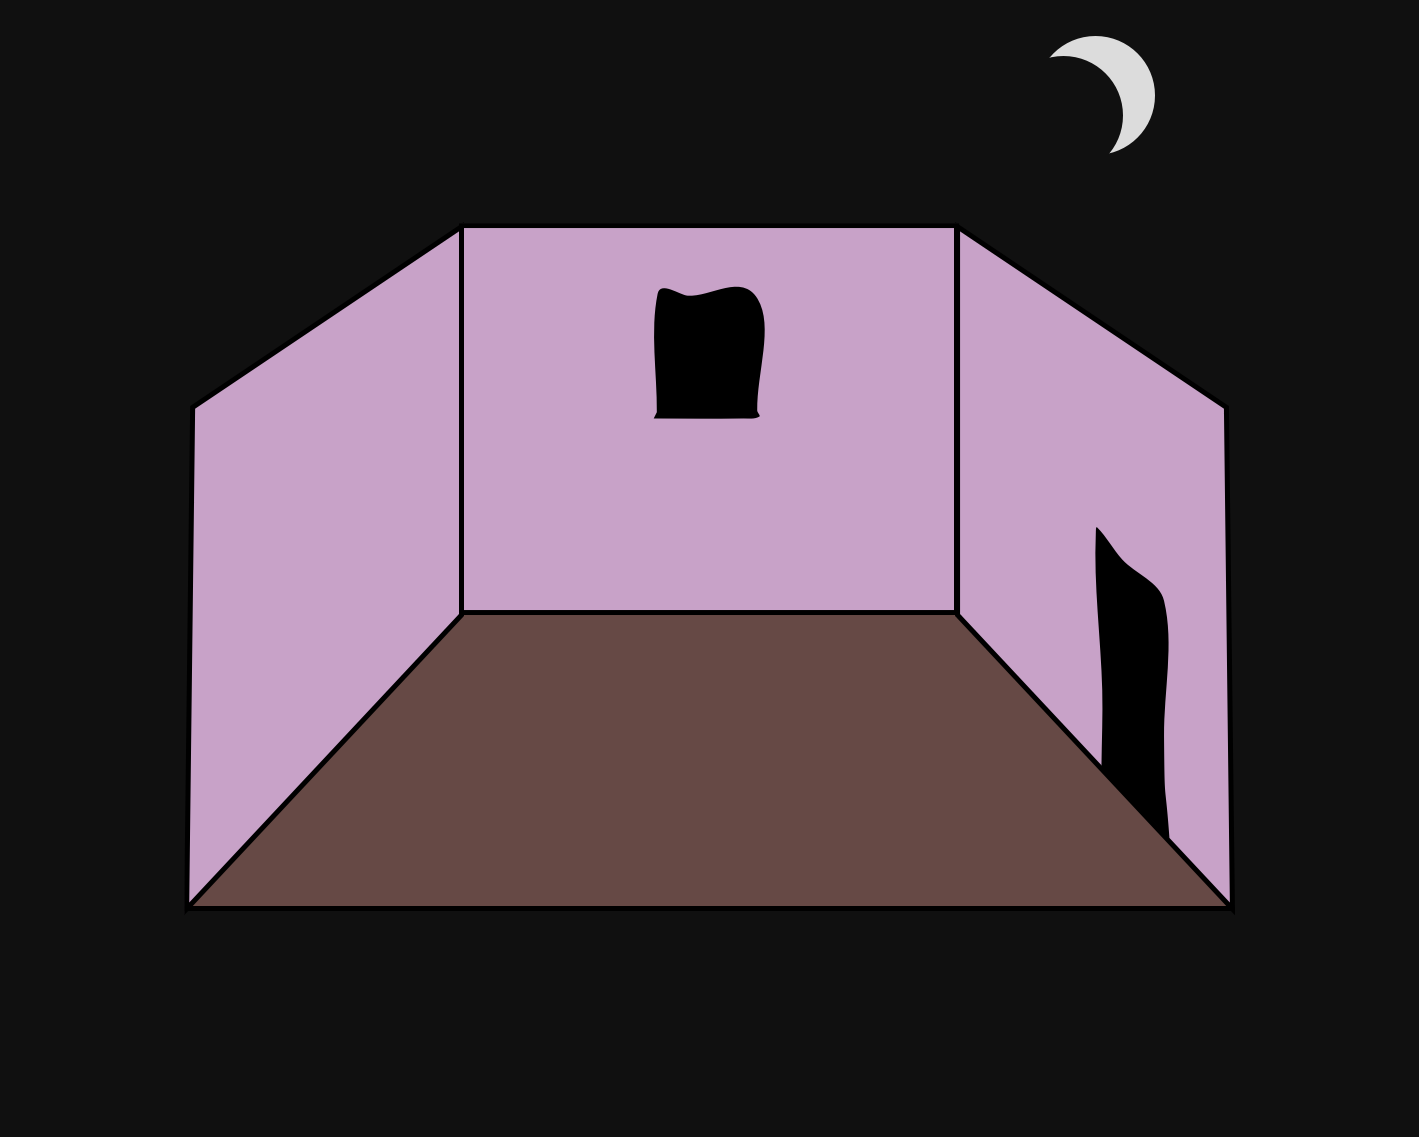
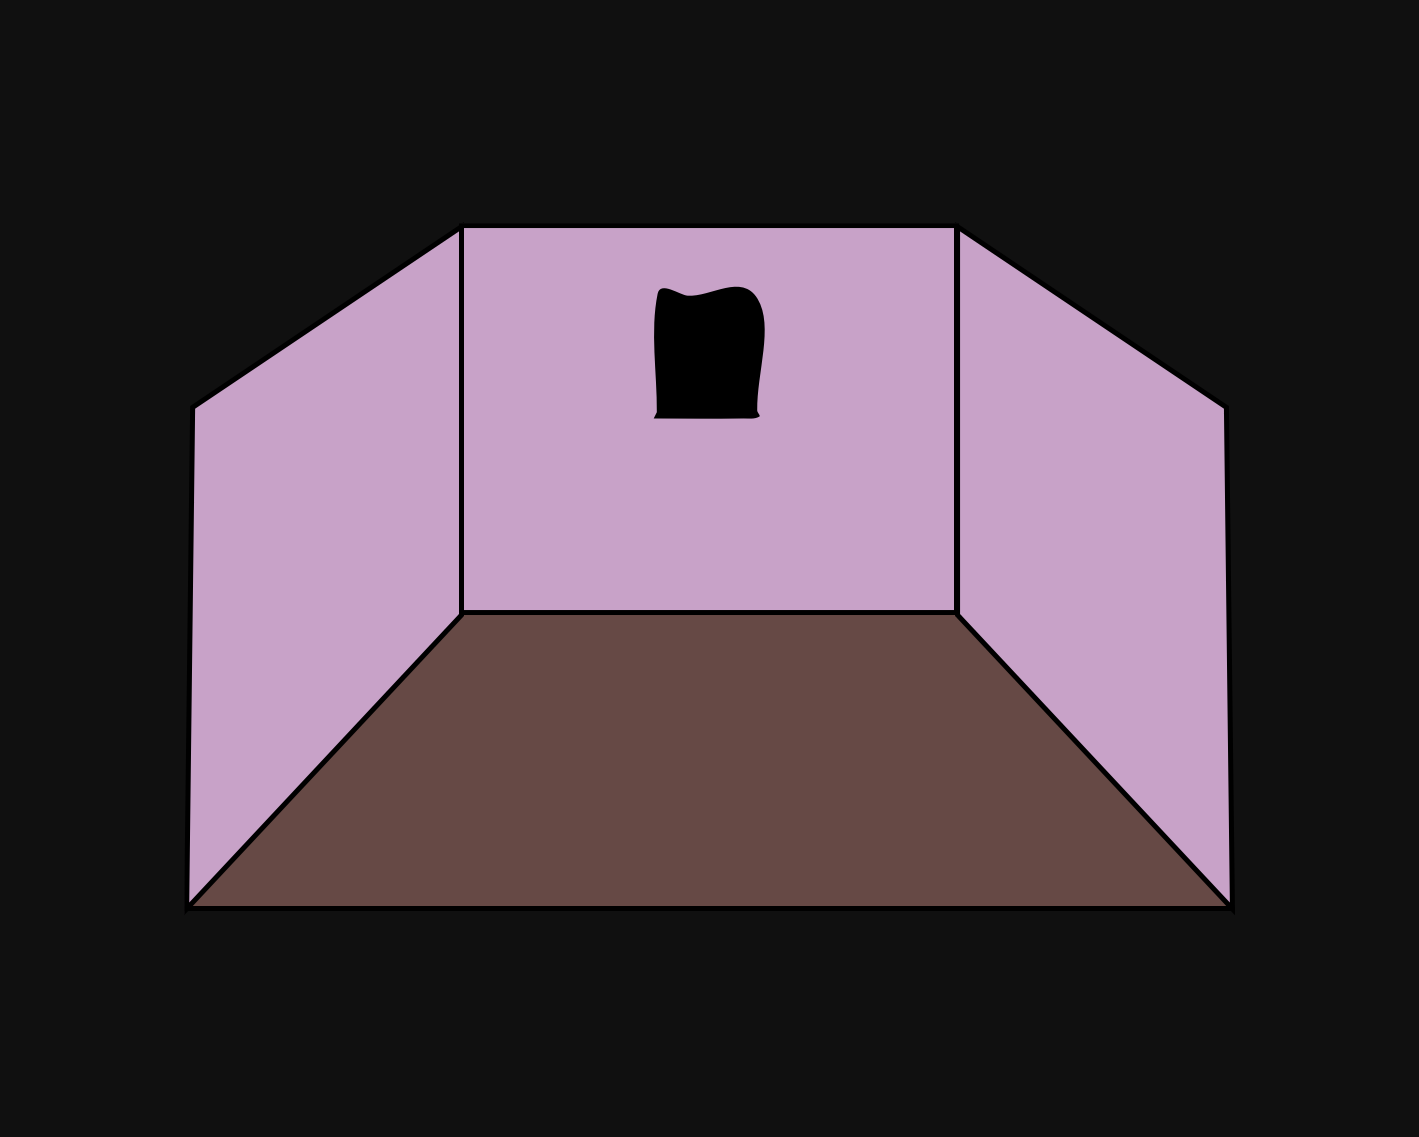
lots of changes!!

Changed region(s): [[0.7442, 0.4617, 0.8372, 0.7388], [0.7442, 0.0308, 0.8372, 0.1539]]

diff --git a/src/pages/index.js b/src/pages/index.js
@@ -7,10 +7,12 @@ import SEO from '../components/seo';
 import '../styles/index.scss';
 
 import Room from '../images/room.png'
+import Moon from '../images/moon.png'
 import Book from '../images/book.png'
 import Chair from '../images/chair.png'
 import Clock from '../images/clock.png'
 import ClosedDoor from '../images/closed_door.png'
+import DoorHole from '../images/door_hole.png'
 import Desk from '../images/desk.png'
 import Houseplant from '../images/houseplant.png'
 import Laptop from '../images/laptop.png'
@@ -20,24 +22,54 @@ import Photos from '../images/photos.png'
 import Piano from '../images/piano.png'
 import Scroll from '../images/scroll.png'
 
+function open_door() {
+	document.getElementById('open_door').style.visibility = 'visible'
+	document.getElementById('closed_door').style.visibility = 'hidden'
+}
+
+function close_door() {
+	document.getElementById('open_door').style.visibility = 'hidden'
+	document.getElementById('closed_door').style.visibility = 'visible'
+}
+
 const IndexPage = () => (
 	<Layout>
 		<SEO title="home" />
 		<div style={{ display: 'flex', flexDirection: 'column', justifyContent: 'center' }}>
 			<div style={{ position: 'relative' }}>
 				<img src={Room} alt='lilac room with brown floor' style={{ position: 'absolute', top: '0', left: '0', width: '900px', height: 'auto' }} />
+				<Link to='/moon' style={{ textDecoration: 'none' }}>
+					<img src={Moon} alt='crescent moon' style={{ position: 'absolute', top: '40px', left: '585px', width: '70px', height: 'auto' }} />
+				</Link>
 				<img src={Desk} alt='four-legged desk' style={{ position: 'absolute', top: '300px', left: '360px', width: '180px', height: 'auto' }} />
 				<img src={Chair} alt='desk chair with wheels' style={{ position: 'absolute', top: '320px', left: '405px', width: '100px', height: 'auto' }} />
-				<img src={Book} alt='open book with red cover' style={{ position: 'absolute', top: '297px', left: '450px', width: '55px', height: 'auto' }} />
-				<img src={Laptop} alt='laptop' style={{ position: 'absolute', top: '280px', left: '390px', width: '60px', height: 'auto' }} />
-				<img src={Clock} alt='analog clock' style={{ position: 'absolute', top: '200px', left: '530px', width: '35px', height: 'auto' }} />
-				<img src={Houseplant} alt='tall leafy houseplant' style={{ position: 'absolute', top: '210px', left: '530px', width: '120px', height: 'auto' }} />
-				<img src={Photos} alt='three photos on wall' style={{ position: 'absolute', top: '200px', left: '230px', width: '50px', height: 'auto' }} />
-				<img src={Scroll} alt='scroll with flowers and Chinese' style={{ position: 'absolute', top: '250px', left: '650px', width: '40px', height: 'auto' }} />
-				<img src={ClosedDoor} alt='brown door, closed' style={{ position: 'absolute', top: '333px', left: '691px', width: '55px', height: 'auto' }} />
-				<img src={OpenDoor} alt='brown door, open' style={{ visibility: 'hidden', position: 'absolute', top: '333px', left: '635px', width: '66px', height: 'auto' }} />
-				<img src={Moonlight} alt='rays of moonlight' style={{ position: 'absolute', top: '175px', left: '245px', width: '250px', height: 'auto' }} />
-				<img src={Piano} alt='piano keyboard and bench' style={{ position: 'absolute', top: '350px', left: '130px', width: '175px', height: 'auto' }} />
+				<Link to='/words' style={{ textDecoration: 'none' }}>
+					<img src={Book} alt='open book with red cover' style={{ position: 'absolute', top: '297px', left: '450px', width: '55px', height: 'auto' }} />
+				</Link>
+				<Link to='/random' style={{ textDecoration: 'none' }}>
+					<img src={Laptop} alt='laptop' style={{ position: 'absolute', top: '280px', left: '390px', width: '60px', height: 'auto' }} />
+				</Link>
+				<Link to='/time' style={{ textDecoration: 'none' }}>
+					<img src={Clock} alt='analog clock' style={{ position: 'absolute', top: '200px', left: '340px', width: '35px', height: 'auto' }} />
+				</Link>
+				<Link to='/goals' style={{ textDecoration: 'none' }}>
+					<img src={Houseplant} alt='tall leafy houseplant' style={{ position: 'absolute', top: '210px', left: '530px', width: '120px', height: 'auto' }} />
+				</Link>
+				<Link to='/album' style={{ textDecoration: 'none' }}>
+					<img src={Photos} alt='three photos on wall' style={{ position: 'absolute', top: '200px', left: '230px', width: '50px', height: 'auto' }} />
+				</Link>
+				<Link to='/fragments' style={{ textDecoration: 'none' }}>
+					<img src={Scroll} alt='scroll with flowers and Chinese' style={{ position: 'absolute', top: '250px', left: '650px', width: '40px', height: 'auto' }} />
+				</Link>
+				<Link to='/outside' onFocus={open_door} onMouseOver={open_door} onMouseMove={open_door} onMouseOut={close_door} onBlur={close_door} style={{ textDecoration: 'none' }}>
+					<img src={DoorHole} alt='door hole' style={{ position: 'absolute', top: '333px', left: '691px', width: '55px', height: 'auto' }} />
+					<img id='closed_door' src={ClosedDoor} alt='brown door, closed' style={{ position: 'absolute', top: '333px', left: '691px', width: '55px', height: 'auto' }} />
+					<img id='open_door' src={OpenDoor} alt='brown door, open' style={{ visibility: 'hidden', position: 'absolute', top: '333px', left: '635px', width: '66px', height: 'auto' }} />
+				</Link>
+				<img src={Moonlight} alt='rays of moonlight' style={{ position: 'absolute', top: '175px', left: '245px', width: '250px', height: 'auto', pointerEvents: 'none' }} />
+				<Link to='/listen' style={{ textDecoration: 'none' }}>
+					<img src={Piano} alt='piano keyboard and bench' style={{ position: 'absolute', top: '350px', left: '130px', width: '175px', height: 'auto' }} />
+				</Link>
 			</div>
 		</div>
 	</Layout>

diff --git a/src/pages/listen.js b/src/pages/listen.js
@@ -6,16 +6,17 @@ const ListeningPage = () => {
 	return (
 		<Layout>
 			<SEO title="listen" />
-			<h3>listen</h3>
-			<iframe style={{ margin: `10px` }} src="https://open.spotify.com/embed/track/3Dp5SHGbRIqjGGI3cPdESA" width="300" height="380" frameborder="0" allowtransparency="true" allow="encrypted-media"></iframe>
-            <iframe style={{ margin: `10px` }} src="https://open.spotify.com/embed/track/01ZqsXtHhRtO2Z2JrvkG1w" width="300" height="380" frameborder="0" allowtransparency="true" allow="encrypted-media"></iframe>
-            <iframe style={{ margin: `10px` }} src="https://open.spotify.com/embed/track/5Hvi3XSS00txHgZB6UZhFl" width="300" height="380" frameborder="0" allowtransparency="true" allow="encrypted-media"></iframe>
-            <iframe style={{ margin: `10px` }} src="https://open.spotify.com/embed/track/5SEvxpu5ImOFOcXyeM8fbx" width="300" height="380" frameborder="0" allowtransparency="true" allow="encrypted-media"></iframe>
-            <iframe style={{ margin: `10px` }} src="https://open.spotify.com/embed/track/2LcqFRq2xBQdSfXBh5IIUk" width="300" height="380" frameborder="0" allowtransparency="true" allow="encrypted-media"></iframe>
-            <iframe style={{ margin: `10px` }} src="https://open.spotify.com/embed/track/3uouaAVXpQR3X8RYkJyitQ" width="300" height="380" frameborder="0" allowtransparency="true" allow="encrypted-media"></iframe>
-			<iframe style={{ margin: `10px` }} src="https://open.spotify.com/embed/track/3ayPsLrm2vQwp8SUMDJYaC" width="300" height="380" frameborder="0" allowtransparency="true" allow="encrypted-media"></iframe>
-			<iframe style={{ margin: `10px` }} src="https://open.spotify.com/embed/track/4bW1EAnsS22bviZ0ijkhwN" width="300" height="380" frameborder="0" allowtransparency="true" allow="encrypted-media"></iframe>
-			<iframe style={{ margin: `10px` }} src="https://open.spotify.com/embed/track/4i1sWZe3erL8QVRCdwMoxT" width="300" height="380" frameborder="0" allowtransparency="true" allow="encrypted-media"></iframe>
+            <div style={{ height: '30px' }} />
+			<h3>music! but not piano music</h3>
+			<iframe title='bourbon' style={{ margin: `10px` }} src="https://open.spotify.com/embed/track/3Dp5SHGbRIqjGGI3cPdESA" width="300" height="380" frameborder="0" allowtransparency="true" allow="encrypted-media"></iframe>
+            <iframe title='lights on' style={{ margin: `10px` }} src="https://open.spotify.com/embed/track/01ZqsXtHhRtO2Z2JrvkG1w" width="300" height="380" frameborder="0" allowtransparency="true" allow="encrypted-media"></iframe>
+            <iframe title='ugly beauty' style={{ margin: `10px` }} src="https://open.spotify.com/embed/track/0cONHWTIfgEpAuVwbbwGgc" width="300" height="380" frameborder="0" allowtransparency="true" allow="encrypted-media"></iframe>
+            <iframe title='dream of you' style={{ margin: `10px` }} src="https://open.spotify.com/embed/track/5SEvxpu5ImOFOcXyeM8fbx" width="300" height="380" frameborder="0" allowtransparency="true" allow="encrypted-media"></iframe>
+            <iframe title='sugar baby' style={{ margin: `10px` }} src="https://open.spotify.com/embed/track/2LcqFRq2xBQdSfXBh5IIUk" width="300" height="380" frameborder="0" allowtransparency="true" allow="encrypted-media"></iframe>
+            <iframe title='cyanide' style={{ margin: `10px` }} src="https://open.spotify.com/embed/track/3uouaAVXpQR3X8RYkJyitQ" width="300" height="380" frameborder="0" allowtransparency="true" allow="encrypted-media"></iframe>
+			<iframe title='戀曲1980' style={{ margin: `10px` }} src="https://open.spotify.com/embed/track/6hFQzyg9zkhueFWAaMXZnE" width="300" height="380" frameborder="0" allowtransparency="true" allow="encrypted-media"></iframe>
+			<iframe title='open up' style={{ margin: `10px` }} src="https://open.spotify.com/embed/track/4bW1EAnsS22bviZ0ijkhwN" width="300" height="380" frameborder="0" allowtransparency="true" allow="encrypted-media"></iframe>
+			<iframe title='comeback.' style={{ margin: `10px` }} src="https://open.spotify.com/embed/track/4i1sWZe3erL8QVRCdwMoxT" width="300" height="380" frameborder="0" allowtransparency="true" allow="encrypted-media"></iframe>
 		</Layout>
 	);
 };

diff --git a/src/pages/goals.js b/src/pages/goals.js
@@ -7,29 +7,19 @@ const GoalsPage = () => {
 	return (
 		<Layout>
 			<SEO title="goals" />
-			<h3>goals for 2021</h3>
+            <div style={{ height: '30px' }} />
+			this one's a bit unrelated, but the houseplant is aspirational anyway.
+			<h3>personal goals</h3>
             <p>
-				<b>reach out to more people, & share work more often</b>: i sometimes miss opportunities
-				to talk to interesting people, so i'd like to do that more. also, i want to find a good
-				way to share work & get feedback (social media often feels too impersonal and insufficient
-				in general)<br /><br />
-				<b>get better at saying what i think</b>: i'm hesitant to bring up my opinions whenever they
-				could come off as abrasive. however, i've found (on the receiving end) i prefer efficient
-				communication, even if it's blunt. i still want to be kind and empathetic — i don't think these
-				goals are antithetical — & try to be someone people can have a long and thoughtful conversation with.<br /><br />
-				<b>focus on doing things well in the present</b>: instead of always thinking about how i
-				could or should be doing more and trying to fill up every single moment of my day, i want to
-				get more deeply involved in my current (limited) commitments and do better within those<br /><br />
-				<b>read more</b>: yeah<br /><br />
-				<b>be less fazed by insignificant, random stuff</b>: there are usually more important things
-				to be worried about<br /><br />
-				<b>write a blog post fully in chinese</b>: i recently wrote <Link to="/fragments">this</Link>{' '}
-				in an attempt to begin improving at chinese. the writing is extremely awkward and stilted, and
-				i wasn't even telling my own stories--i was retelling my dad's. hopefully after a few more tries
-				i'll reach a level where i'm comfortable with writing something more substantial<br /><br />
-				<b>play piano again!</b> i was lucky to be able to learn piano for nearly a decade. i ended up
-				getting too busy and quitting, but i really loved it. i don't think i'll ever take lessons again,
-				but i'm hoping to pick it back up as a hobby.
+				<b>2021</b><br/>
+				<b>meet new people!</b> &#8211; hoping end of lockdown will make this easier.<br/>
+				<b>get better at saying what i think</b>, even if it could come off as abrasive.<br/>
+				<b>focus on doing things well in the present</b> instead of thinking about how i could or should be doing more.<br/>
+				<b>be unfazed</b>.<br/>
+				<b>read more</b>.<br/>
+				<b>write a blog post fully in chinese</b> &#8211; my chinese writing is awkward and stilted, even when i'm <Link to="/fragments">not telling my own stories</Link>.{' '}
+				i want to reach a level where i'm comfortable with writing something more substantial.<br/>
+				<b>play piano again!</b> i was lucky to be able to learn piano for nearly a decade. i got too busy and quit, but i loved it nonetheless.
 			</p>
 		</Layout>
 	);

diff --git a/src/pages/fragments.js b/src/pages/fragments.js
@@ -7,8 +7,9 @@ import OldMan from '../images/old-man.jpg'
 const FragmentsPage = () => {
     return (
         <Layout>
-            <SEO title="fragments of an oral history, transcribed" />
-            <h3>fragments of an oral history, transcribed</h3>
+            <SEO title="fragments" />
+            <div style={{ height: '30px' }} />
+            <h3>fragmented stories of my dad's childhood</h3>
             <p>
                 我有时候没事干了，或者不想干正经事的时候，我就让我的爸爸给我讲他童年的故事。他在一九六几年的北京长大的。他讲的故事总是非常有意思，听起来非常好玩儿，虽然他的童年也不容易。我不想把这些故事忘掉，所以我就在这儿写下来。<br />
                 <br />
@@ -34,7 +35,7 @@ const FragmentsPage = () => {
                 <br />
                 我的中文水平不太高。你如果愿意对于我写的笔记提出任何关于语法或者词汇选择的建议，我会非常高兴的听！：）<br />
                 <br />
-                <img src={OldMan} style={{ width: `300px` }}></img>
+                <img src={OldMan} alt='stylized face of old man, drawn in chalk' style={{ width: `300px` }}></img>
             </p>
         </Layout>
     );

diff --git a/src/pages/outside.js b/src/pages/outside.js
@@ -1,0 +1,31 @@
+import React from 'react';
+import { Link } from 'gatsby';
+import Layout from '../components/layout';
+import SEO from '../components/seo';
+
+import Firefly from '../images/firefly.png'
+
+const OutsidePage = () => {
+    return (
+        <Layout>
+            <SEO title="outside" />
+            <div style={{ height: '30px' }} />
+            <p style={{ textAlign: 'center' }}>
+                hmm, there's nothing out here...
+            </p>
+            <br/><br/><br/>
+            <p style={{ textAlign: 'center', marginRight: '350px' }}>
+                wait...
+            </p>
+            <br/><br/><br/><br/><br/><br/>
+            <p style={{ textAlign: 'center', marginLeft: '240px' }}>
+                what's this?
+            </p>
+            <Link to='/outside-2' style={{ textDecoration: 'none' }}>
+                <img src={Firefly} alt='small orb of yellow light' style={{ position: 'absolute', bottom: '280px', left: '50vw', width: '50px', height: 'auto' }} />
+            </Link>
+        </Layout>
+    );
+};
+
+export default OutsidePage;

diff --git a/src/pages/moon.js b/src/pages/moon.js
@@ -1,0 +1,19 @@
+import React from 'react';
+import { Link } from 'gatsby';
+import Layout from '../components/layout';
+import SEO from '../components/seo';
+
+const MoonPage = () => {
+    return (
+        <Layout>
+        <SEO title="dear moon" />
+            <div style={{ display: 'flex', flexDirection: 'column', justifyContent: 'center' }}>
+                <div style={{ margin: 'auto', height: '87.5vh', display: 'flex', flexDirection: 'row', alignItems: 'center' }}>
+                    <iframe title='dear moon' src="https://open.spotify.com/embed/track/25jQhp7TC3nIJ3Jm3QoFI6" width="300" height="380" frameborder="0" allowtransparency="true" allow="encrypted-media"></iframe>
+                </div>
+            </div>
+        </Layout>
+    );
+};
+
+export default MoonPage;

diff --git a/src/pages/outside-3.js b/src/pages/outside-3.js
@@ -1,0 +1,20 @@
+import React from 'react';
+import { Link } from 'gatsby';
+import Layout from '../components/layout';
+import SEO from '../components/seo';
+
+import OldComputer from '../images/old_computer.png'
+
+const Outside3Page = () => {
+    return (
+        <Layout>
+            <SEO title="outside" />
+            <div style={{ height: '30px' }} />
+            <a href='https://tilde.town/~al' target='_blank' rel='noreferrer' style={{ textDecoration: 'none' }}>
+                <img src={OldComputer} alt='old computer: boxy monitor, keyboard, mouse' style={{ position: 'absolute', top: '49vh', right: '28vw', width: '95px', height: 'auto' }} />
+            </a>
+        </Layout>
+    );
+};
+
+export default Outside3Page;

diff --git a/src/pages/outside-2.js b/src/pages/outside-2.js
@@ -1,0 +1,20 @@
+import React from 'react';
+import { Link } from 'gatsby';
+import Layout from '../components/layout';
+import SEO from '../components/seo';
+
+import Firefly from '../images/firefly.png'
+
+const Outside2Page = () => {
+    return (
+        <Layout>
+            <SEO title="outside" />
+            <div style={{ height: '30px' }} />
+            <Link to='/outside-3' style={{ textDecoration: 'none' }}>
+                <img src={Firefly} alt='small orb of yellow light' style={{ position: 'absolute', top: '28vh', left: '42vw', width: '50px', height: 'auto' }} />
+            </Link>
+        </Layout>
+    );
+};
+
+export default Outside2Page;

diff --git a/src/pages/time.js b/src/pages/time.js
@@ -1,0 +1,18 @@
+import React from 'react';
+import Layout from '../components/layout';
+import SEO from '../components/seo';
+
+import Sparrows from '../images/sparrows.gif'
+
+const TimePage = () => {
+	return (
+		<Layout>
+			<SEO title="time" />
+            <div style={{ height: '30px' }} />
+			<p>201124: sparrow flight</p>
+			<img alt='sparrows flying up and down in a blob' src={Sparrows}></img>
+		</Layout>
+	);
+};
+
+export default TimePage;

diff --git a/src/pages/random.js b/src/pages/random.js
@@ -1,0 +1,16 @@
+import React from 'react';
+import Layout from '../components/layout';
+import SEO from '../components/seo';
+
+const RandomPage = () => {
+	return (
+		<Layout>
+			<SEO title="random" />
+            <div style={{ height: '30px' }} />
+			<h3>might put small & spontaneous coding projects here!</h3>
+            please check back later :)
+		</Layout>
+	);
+};
+
+export default RandomPage;

diff --git a/src/pages/words.js b/src/pages/words.js
@@ -1,0 +1,18 @@
+import React from 'react';
+import Layout from '../components/layout';
+import SEO from '../components/seo';
+
+const WordsPage = () => {
+	return (
+		<Layout>
+			<SEO title="words" />
+            <div style={{ height: '30px' }} />
+			<h3>thoughts and words i have nowhere else to put</h3>
+			<p>
+				please check back later :)
+			</p>
+		</Layout>
+	);
+};
+
+export default WordsPage;

diff --git a/src/components/footer.js b/src/components/footer.js
@@ -9,7 +9,7 @@ const Footer = ({ siteTitle }) => (
 			marginLeft: `6rem`,
 		}}
 	>
-        <b>Last cultivated on 210117.</b>{` `}
+        <b>Last cultivated on 210504.</b>{` `}
 		© {new Date().getFullYear()}, <a href="https://anli.io" target="_blank" rel="noreferrer">Anne Li</a>. Built with
 		{` `}
 		<a href="https://www.gatsbyjs.com" target="_blank" rel="noreferrer">
